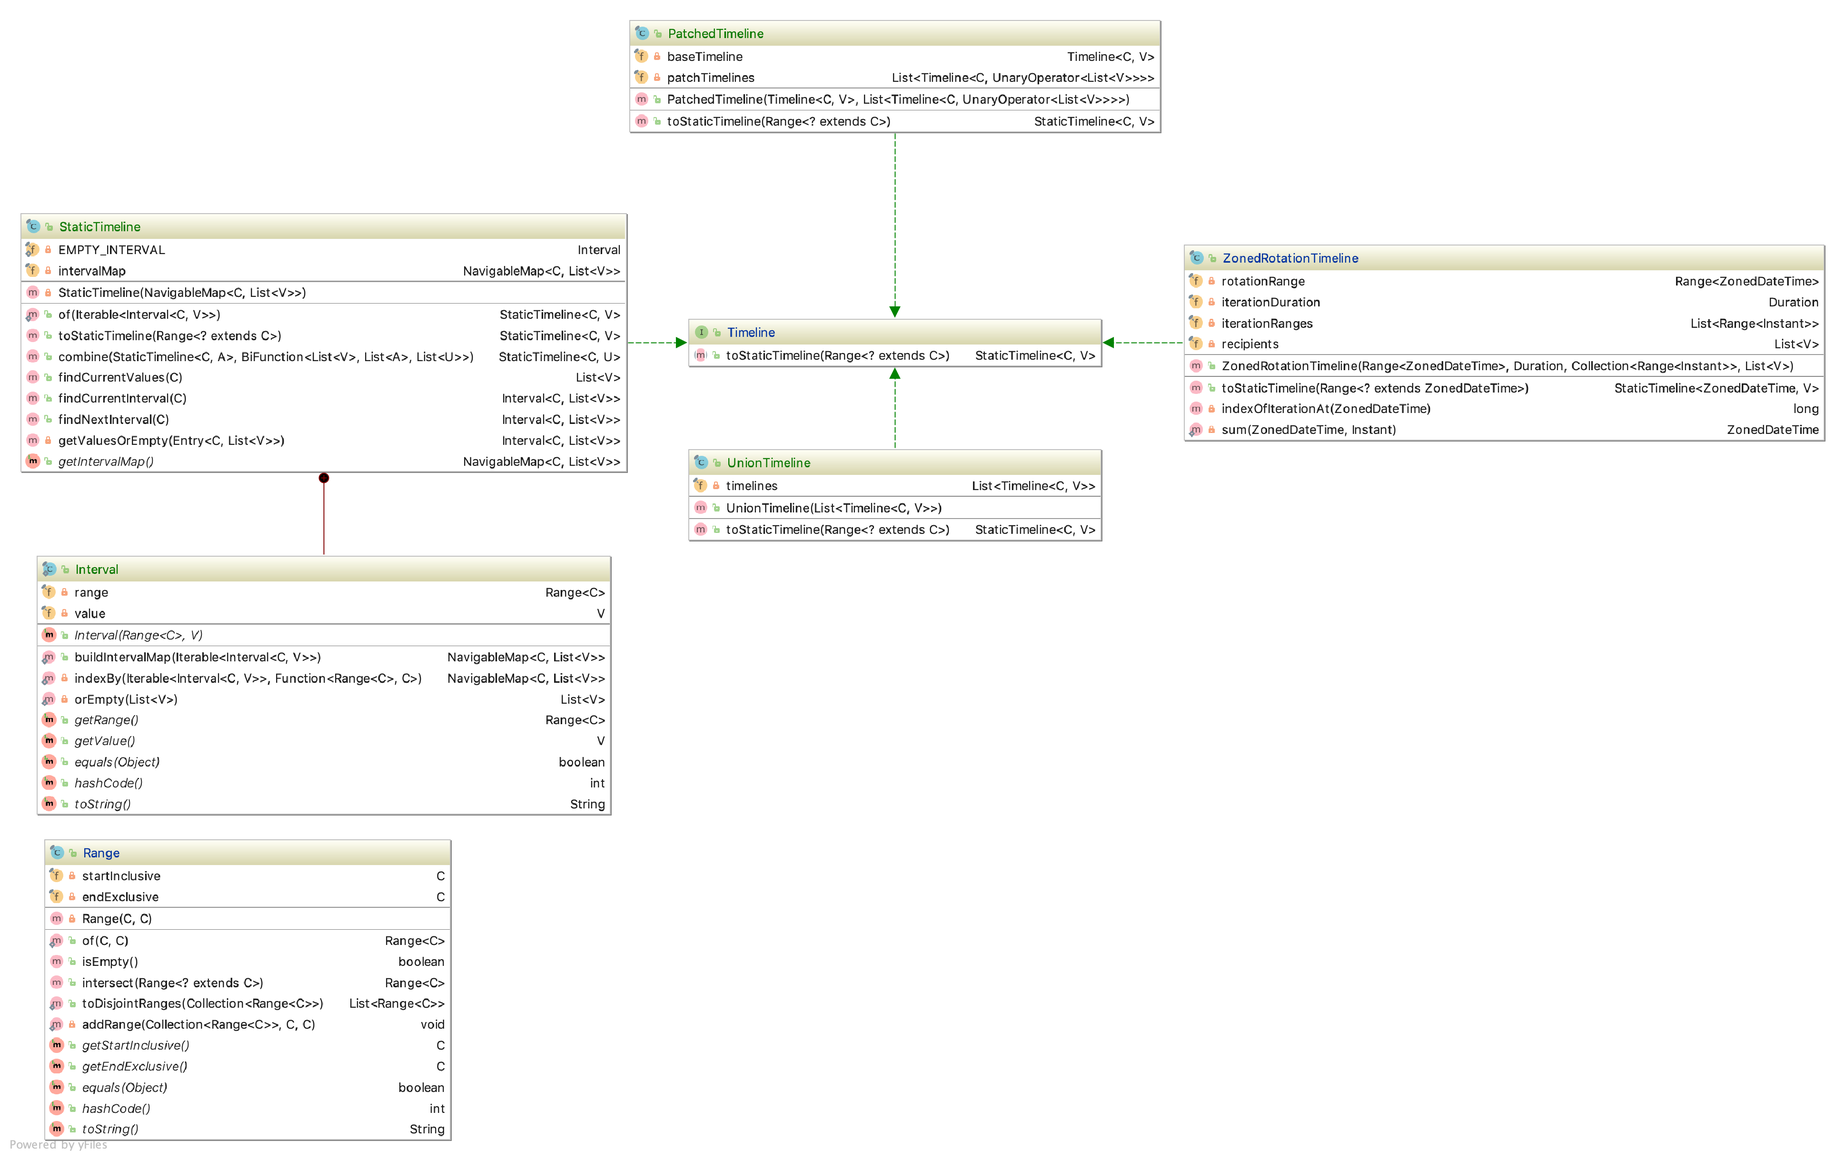
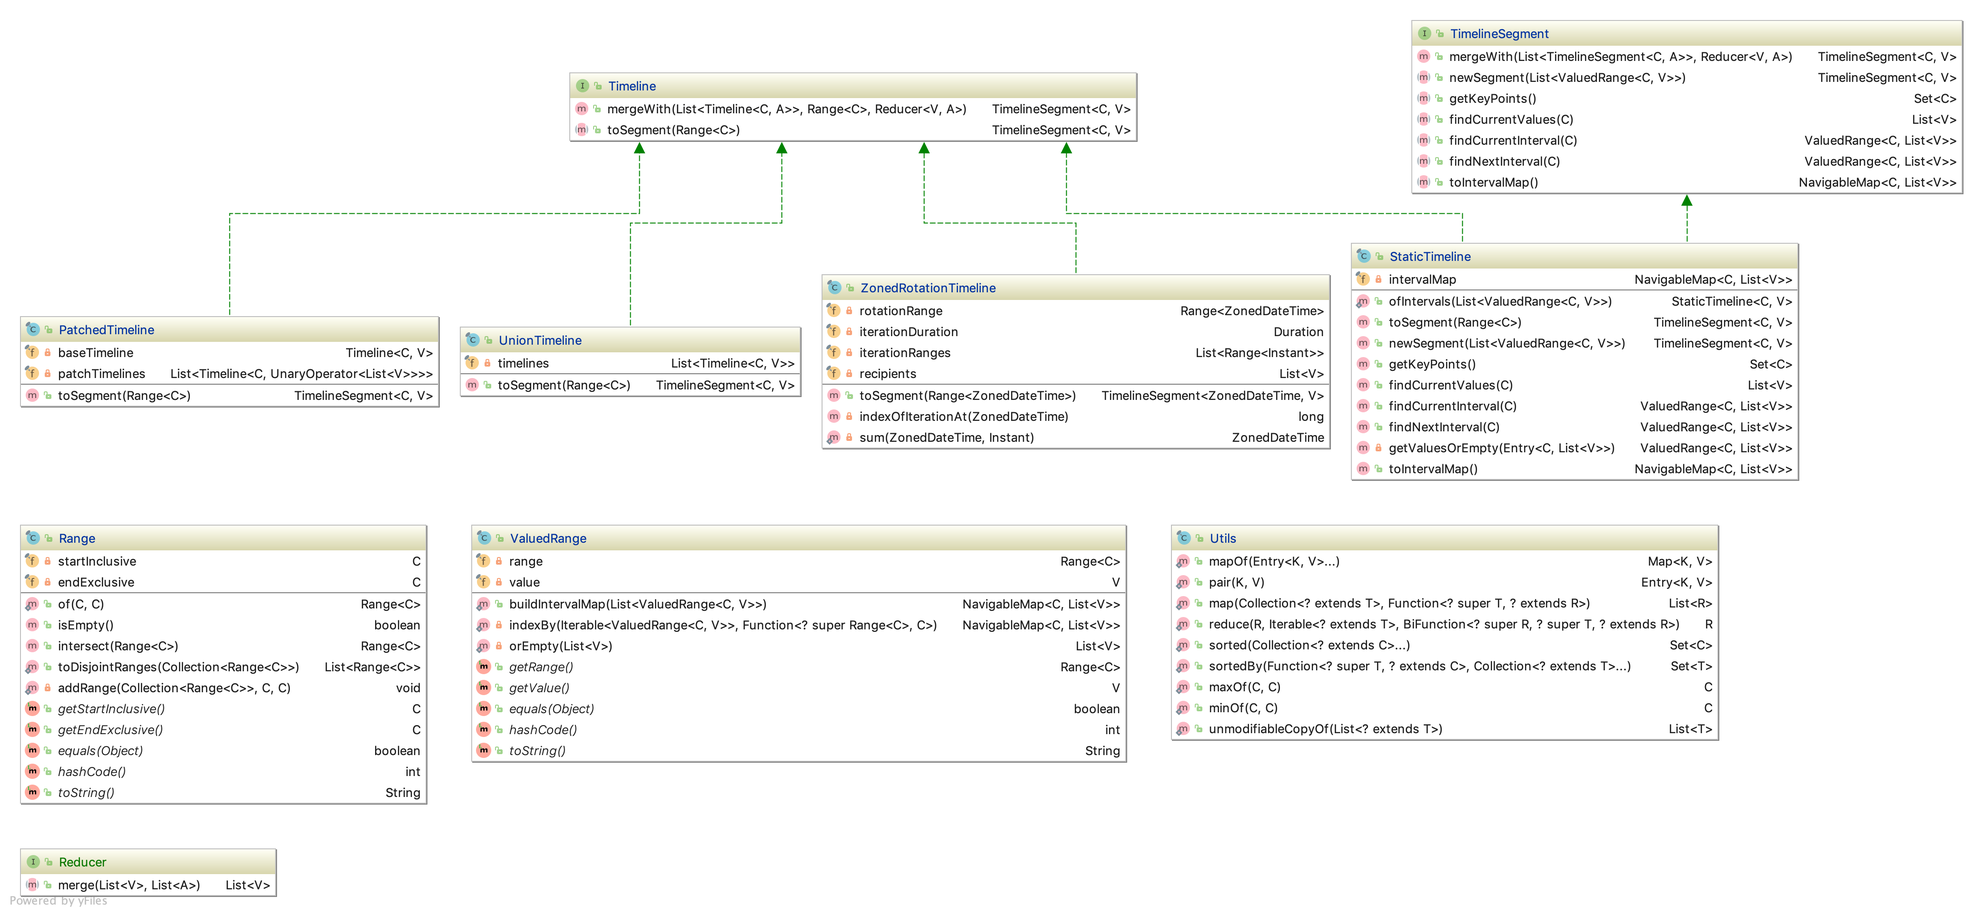
Add DSM

diff --git a/src/test/java/com/github/mmdemirbas/oncalls/TimelineTest.java b/src/test/java/com/github/mmdemirbas/oncalls/TimelineTest.java
@@ -396,13 +396,13 @@ final class TimelineTest {
 
     private static void assertRecipients(BiFunction<Timeline<ZonedDateTime, String>, Long, List<OnCall>> getRecipients,
                                          List<Timeline<ZonedDateTime, String>> rotations,
-                                         List<Interval<Instant, String>> overrides,
+                                         List<ValuedRange<Instant, String>> overrides,
                                          Entry<Instant, List<OnCall>>... expecteds) {
         Timeline<ZonedDateTime, String> snapshot = new PatchedTimeline<>(new UnionTimeline<>(rotations),
                                                                          asList(StaticTimeline.ofIntervals(map(overrides,
                                                                                                                override -> {
                                                                                                                    Range<Instant> range = override.getRange();
-                                                                                                                   return new Interval<>(
+                                                                                                                   return new ValuedRange<>(
                                                                                                                            dateRange(
                                                                                                                                    range.getStartInclusive(),
                                                                                                                                    range.getEndExclusive()),
@@ -429,7 +429,7 @@ final class TimelineTest {
         ZonedDateTime                          oneMonthBefore   = dateTime.minus(1, ChronoUnit.MONTHS);
         ZonedDateTime                          oneMonthAfter    = dateTime.plus(1, ChronoUnit.MONTHS);
         Range<ZonedDateTime>                   calculationRange = Range.of(oneMonthBefore, oneMonthAfter);
-        TimelineSegment<ZonedDateTime, String> timeline         = rotations.toTimelineSegment(calculationRange);
+        TimelineSegment<ZonedDateTime, String> timeline         = rotations.toSegment(calculationRange);
         List<OnCall>                           oncalls          = new ArrayList<>();
         addIfNotNull(oncalls, false, timeline.findCurrentInterval(dateTime));
         addIfNotNull(oncalls, true, timeline.findNextInterval(dateTime));
@@ -437,11 +437,10 @@ final class TimelineTest {
     }
 
     private static void addIfNotNull(List<OnCall> oncalls,
-                                     boolean nextOnCall,
-                                     Interval<ZonedDateTime, List<String>> interval) {
-        interval.getValue()
-                .forEach(value -> {
-                    Range<ZonedDateTime> range          = interval.getRange();
+                                     boolean nextOnCall, ValuedRange<ZonedDateTime, List<String>> valuedRange) {
+        valuedRange.getValue()
+                   .forEach(value -> {
+                       Range<ZonedDateTime> range       = valuedRange.getRange();
                     ZonedDateTime        startInclusive = range.getStartInclusive();
                     ZonedDateTime        endExclusive   = range.getEndExclusive();
                     oncalls.add(new OnCall(value,
@@ -478,8 +477,8 @@ final class TimelineTest {
         return new ZonedRotationTimeline<>(dateRange(ZERO, endTime), rotationPeriod, restrictions, asList(recipients));
     }
 
-    private static Interval<Instant, String> overrideBetween(Instant startTime, Instant endTime, String name) {
-        return new Interval<>(Range.of(startTime, endTime), name);
+    private static ValuedRange<Instant, String> overrideBetween(Instant startTime, Instant endTime, String name) {
+        return new ValuedRange<>(Range.of(startTime, endTime), name);
     }
 
     private static Range<Instant> restrictTo(Instant startTime, Instant endTime) {

diff --git a/src/main/java/com/github/mmdemirbas/oncalls/TimelineSegment.java b/src/main/java/com/github/mmdemirbas/oncalls/TimelineSegment.java
@@ -4,15 +4,13 @@ import java.util.ArrayList;
 import java.util.List;
 import java.util.NavigableMap;
 import java.util.Set;
-import java.util.function.BiFunction;
 
 import static com.github.mmdemirbas.oncalls.Utils.reduce;
 import static com.github.mmdemirbas.oncalls.Utils.sorted;
 import static java.util.Collections.emptyList;
 
 /**
- * @author Muhammed Demirbaş
- * @since 2018-11-22 12:37
+ * Represent a finite interval of a {@link Timeline}. Used to merge multiple timelines and query details.
  */
 public interface TimelineSegment<C extends Comparable<? super C>, V> {
     /**
@@ -20,22 +18,21 @@ public interface TimelineSegment<C extends Comparable<? super C>, V> {
      *
      * @param <A> value type of the other segments
      */
-    default <A> TimelineSegment<C, V> mergeWith(List<TimelineSegment<C, A>> segments,
-                                                BiFunction<List<V>, List<A>, List<V>> mergeFunction) {
+    default <A> TimelineSegment<C, V> mergeWith(List<TimelineSegment<C, A>> segments, Reducer<V, A> mergeFunction) {
         return reduce(this, segments, (acc, segment) -> {
-            List<Interval<C, V>> intervals = new ArrayList<>();
-            List<V>              values    = emptyList();
-            C                    start     = null;
-            C                    end       = null;
+            List<ValuedRange<C, V>> valuedRanges = new ArrayList<>();
+            List<V>                 values       = emptyList();
+            C                       start        = null;
+            C                       end          = null;
 
             for (C point : sorted(acc.getKeyPoints(), segment.getKeyPoints())) {
                 end = point;
-                List<V> mergedValues = mergeFunction.apply(acc.findCurrentValues(point),
+                List<V> mergedValues = mergeFunction.merge(acc.findCurrentValues(point),
                                                            segment.findCurrentValues(point));
                 if (!values.equals(mergedValues)) {
                     if (!values.isEmpty()) {
                         Range<C> range = Range.of(start, end);
-                        values.forEach(value -> intervals.add(new Interval<>(range, value)));
+                        values.forEach(value -> valuedRanges.add(new ValuedRange<>(range, value)));
                     }
                     values = mergedValues;
                     start = end;
@@ -44,16 +41,16 @@ public interface TimelineSegment<C extends Comparable<? super C>, V> {
 
             if (!values.isEmpty()) {
                 Range<C> range = Range.of(start, end);
-                values.forEach(value -> intervals.add(new Interval<>(range, value)));
+                values.forEach(value -> valuedRanges.add(new ValuedRange<>(range, value)));
             }
-            return newSegment(intervals);
+            return newSegment(valuedRanges);
         });
     }
 
     /**
-     * Creates a new {@link TimelineSegment} instance from the given {@code intervals}.
+     * Creates a new {@link TimelineSegment} instance from the given {@code valuedRanges}.
      */
-    TimelineSegment<C, V> newSegment(List<Interval<C, V>> intervals);
+    TimelineSegment<C, V> newSegment(List<ValuedRange<C, V>> valuedRanges);
 
     /**
      * Returns a set of change points. In other words all start and end points of sub-intervals.
@@ -68,12 +65,12 @@ public interface TimelineSegment<C extends Comparable<? super C>, V> {
     /**
      * Returns the interval containing the specified {@code point}.
      */
-    Interval<C, List<V>> findCurrentInterval(C point);
+    ValuedRange<C, List<V>> findCurrentInterval(C point);
 
     /**
      * Returns the interval coming just after the interval containing the specified {@code point}.
      */
-    Interval<C, List<V>> findNextInterval(C point);
+    ValuedRange<C, List<V>> findNextInterval(C point);
 
     /**
      * Returns an interval map representation.

diff --git a/src/main/java/com/github/mmdemirbas/oncalls/StaticTimeline.java b/src/main/java/com/github/mmdemirbas/oncalls/StaticTimeline.java
@@ -17,8 +17,8 @@ public final class StaticTimeline<C extends Comparable<? super C>, V> implements
 
     private final NavigableMap<C, List<V>> intervalMap;
 
-    public static <C extends Comparable<? super C>, V> StaticTimeline<C, V> ofIntervals(Iterable<? extends Interval<? extends C, ? extends V>> intervals) {
-        return new StaticTimeline<>(Interval.buildIntervalMap(intervals));
+    public static <C extends Comparable<? super C>, V> StaticTimeline<C, V> ofIntervals(List<ValuedRange<C, V>> intervals) {
+        return new StaticTimeline<>(ValuedRange.buildIntervalMap(intervals));
     }
 
     private StaticTimeline(NavigableMap<C, List<V>> intervalMap) {
@@ -26,7 +26,7 @@ public final class StaticTimeline<C extends Comparable<? super C>, V> implements
     }
 
     @Override
-    public TimelineSegment<C, V> toTimelineSegment(Range<? extends C> calculationRange) {
+    public TimelineSegment<C, V> toSegment(Range<C> calculationRange) {
         C                        start = calculationRange.getStartInclusive();
         C                        end   = calculationRange.getEndExclusive();
         NavigableMap<C, List<V>> map   = new TreeMap<>(intervalMap.subMap(start, end));
@@ -47,8 +47,8 @@ public final class StaticTimeline<C extends Comparable<? super C>, V> implements
     }
 
     @Override
-    public TimelineSegment<C, V> newSegment(List<Interval<C, V>> intervals) {
-        return ofIntervals(intervals);
+    public TimelineSegment<C, V> newSegment(List<ValuedRange<C, V>> valuedRanges) {
+        return ofIntervals(valuedRanges);
     }
 
     @Override
@@ -62,24 +62,24 @@ public final class StaticTimeline<C extends Comparable<? super C>, V> implements
     }
 
     @Override
-    public Interval<C, List<V>> findCurrentInterval(C point) {
+    public ValuedRange<C, List<V>> findCurrentInterval(C point) {
         return getValuesOrEmpty(intervalMap.floorEntry(point));
     }
 
     @Override
-    public Interval<C, List<V>> findNextInterval(C point) {
+    public ValuedRange<C, List<V>> findNextInterval(C point) {
         return getValuesOrEmpty(intervalMap.higherEntry(point));
     }
 
-    private Interval<C, List<V>> getValuesOrEmpty(Entry<C, List<V>> entry) {
+    private ValuedRange<C, List<V>> getValuesOrEmpty(Entry<C, List<V>> entry) {
         if (entry != null) {
             C key     = entry.getKey();
             C nextKey = intervalMap.higherKey(key);
             if (nextKey != null) {
-                return new Interval<>(Range.of(key, nextKey), entry.getValue());
+                return new ValuedRange<>(Range.of(key, nextKey), entry.getValue());
             }
         }
-        return new Interval(null, emptyList());
+        return new ValuedRange(null, emptyList());
     }
 
     @Override

diff --git a/src/main/java/com/github/mmdemirbas/oncalls/ValuedRange.java b/src/main/java/com/github/mmdemirbas/oncalls/ValuedRange.java
@@ -22,7 +22,7 @@ import static java.util.Collections.unmodifiableNavigableMap;
  * @param <V> type of the value associated by the time range
  */
 @Value
-public final class Interval<C extends Comparable<? super C>, V> {
+public final class ValuedRange<C extends Comparable<? super C>, V> {
     private final Range<C> range;
     private final V        value;
 
@@ -31,7 +31,7 @@ public final class Interval<C extends Comparable<? super C>, V> {
     /**
      * Builds an interval map which can be considered as another form of an "interval tree".
      */
-    public static <C extends Comparable<? super C>, V> NavigableMap<C, List<V>> buildIntervalMap(Iterable<? extends Interval<? extends C, ? extends V>> intervals) {
+    public static <C extends Comparable<? super C>, V> NavigableMap<C, List<V>> buildIntervalMap(List<ValuedRange<C, V>> intervals) {
         NavigableMap<C, List<V>> add           = indexBy(intervals, Range::getStartInclusive);
         NavigableMap<C, List<V>> remove        = indexBy(intervals, Range::getEndExclusive);
         NavigableMap<C, List<V>> intervalMap   = new TreeMap<>();
@@ -45,11 +45,11 @@ public final class Interval<C extends Comparable<? super C>, V> {
         return unmodifiableNavigableMap(intervalMap);
     }
 
-    private static <C extends Comparable<? super C>, V> NavigableMap<C, List<V>> indexBy(Iterable<? extends Interval<? extends C, ? extends V>> intervals,
-                                                                                         Function<? super Range<? extends C>, ? extends C> fn) {
+    private static <C extends Comparable<? super C>, V> NavigableMap<C, List<V>> indexBy(Iterable<ValuedRange<C, V>> intervals,
+                                                                                         Function<? super Range<C>, C> fn) {
         NavigableMap<C, List<V>> index = new TreeMap<>();
         intervals.forEach(interval -> {
-            Range<? extends C> range = interval.getRange();
+            Range<C> range = interval.getRange();
             if (!range.isEmpty()) {
                 C       key    = fn.apply(range);
                 List<V> values = index.computeIfAbsent(key, x -> new ArrayList<>());

diff --git a/src/main/java/com/github/mmdemirbas/oncalls/ZonedRotationTimeline.java b/src/main/java/com/github/mmdemirbas/oncalls/ZonedRotationTimeline.java
@@ -42,8 +42,8 @@ public final class ZonedRotationTimeline<V> implements Timeline<ZonedDateTime, V
     }
 
     @Override
-    public TimelineSegment<ZonedDateTime, V> toTimelineSegment(Range<? extends ZonedDateTime> calculationRange) {
-        List<Interval<ZonedDateTime, V>> intervals = new ArrayList<>();
+    public TimelineSegment<ZonedDateTime, V> toSegment(Range<ZonedDateTime> calculationRange) {
+        List<ValuedRange<ZonedDateTime, V>> valuedRanges = new ArrayList<>();
         if (!recipients.isEmpty()) {
             Range<ZonedDateTime> effectiveRange = rotationRange.intersect(calculationRange);
             long                 startIndex     = indexOfIterationAt(effectiveRange.getStartInclusive());
@@ -54,14 +54,14 @@ public final class ZonedRotationTimeline<V> implements Timeline<ZonedDateTime, V
             for (long index = startIndex; index <= endIndex; index++) {
                 V recipient = recipients.get((int) (index % recipients.size()));
                 for (Range<Instant> range : iterationRanges) {
-                    intervals.add(new Interval<>(Range.of(sum(offset, range.getStartInclusive()),
-                                                          sum(offset, range.getEndExclusive()))
-                                                      .intersect(effectiveRange), recipient));
+                    valuedRanges.add(new ValuedRange<>(Range.of(sum(offset, range.getStartInclusive()),
+                                                                sum(offset, range.getEndExclusive()))
+                                                            .intersect(effectiveRange), recipient));
                 }
                 offset = offset.plus(iterationDuration);
             }
         }
-        return StaticTimeline.ofIntervals(intervals);
+        return StaticTimeline.ofIntervals(valuedRanges);
     }
 
     private long indexOfIterationAt(ZonedDateTime point) {

diff --git a/src/test/java/com/github/mmdemirbas/oncalls/ValuedRangeTest.java b/src/test/java/com/github/mmdemirbas/oncalls/ValuedRangeTest.java
@@ -2,7 +2,6 @@ package com.github.mmdemirbas.oncalls;
 
 import org.junit.jupiter.api.Test;
 
-import java.util.Collection;
 import java.util.List;
 import java.util.Map;
 
@@ -15,7 +14,7 @@ import static org.junit.jupiter.api.Assertions.assertEquals;
  * @author Muhammed Demirbaş
  * @since 2018-11-22 09:56
  */
-public final class IntervalTest {
+public final class ValuedRangeTest {
     @Test
     void buildIntervalMap_NoEvents() {
         assertIntervalMap(mapOf(), asList());
@@ -60,15 +59,15 @@ public final class IntervalTest {
     }
 
     private static void assertIntervalMap(Map<Integer, List<String>> expected,
-                                          Collection<Interval<Integer, String>> intervals) {
-        assertEquals(expected, Interval.buildIntervalMap(intervals));
+                                          List<ValuedRange<Integer, String>> valuedRanges) {
+        assertEquals(expected, ValuedRange.buildIntervalMap(valuedRanges));
     }
 
     ////////////////////////////////////////////////////////////////////////////////////////////////////////////////////
 
-    private static <C extends Comparable<? super C>, V> Interval<C, V> interval(C startInclusive,
-                                                                                C endExclusive,
-                                                                                V value) {
-        return new Interval<>(Range.of(startInclusive, endExclusive), value);
+    private static <C extends Comparable<? super C>, V> ValuedRange<C, V> interval(C startInclusive,
+                                                                                   C endExclusive,
+                                                                                   V value) {
+        return new ValuedRange<>(Range.of(startInclusive, endExclusive), value);
     }
 }

diff --git a/src/main/java/com/github/mmdemirbas/oncalls/Timeline.java b/src/main/java/com/github/mmdemirbas/oncalls/Timeline.java
@@ -1,7 +1,6 @@
 package com.github.mmdemirbas.oncalls;
 
 import java.util.List;
-import java.util.function.BiFunction;
 
 import static com.github.mmdemirbas.oncalls.Utils.map;
 
@@ -20,15 +19,14 @@ public interface Timeline<C extends Comparable<? super C>, V> {
      * @param <A> type of the values of the other timelines
      */
     default <A> TimelineSegment<C, V> mergeWith(List<Timeline<C, A>> timelines,
-                                                Range<? extends C> calculationRange,
-                                                BiFunction<List<V>, List<A>, List<V>> mergeFunction) {
-        return toTimelineSegment(calculationRange).mergeWith(map(timelines,
-                                                                 timeline -> timeline.toTimelineSegment(calculationRange)),
-                                                             mergeFunction);
+                                                Range<C> calculationRange,
+                                                Reducer<V, A> mergeFunction) {
+        return toSegment(calculationRange).mergeWith(map(timelines, timeline -> timeline.toSegment(calculationRange)),
+                                                     mergeFunction);
     }
 
     /**
-     * Converts the specified {@code calculationRange} part of this Timeline into a {@link TimelineSegment}
+     * Creates a {@link TimelineSegment} on the specified {@code calculationRange} of this Timeline.
      */
-    TimelineSegment<C, V> toTimelineSegment(Range<? extends C> calculationRange);
+    TimelineSegment<C, V> toSegment(Range<C> calculationRange);
 }

diff --git a/src/test/java/com/github/mmdemirbas/oncalls/ZonedRotationTimelineTest.java b/src/test/java/com/github/mmdemirbas/oncalls/ZonedRotationTimelineTest.java
@@ -149,7 +149,7 @@ final class ZonedRotationTimelineTest {
                                                                                   iterationDuration,
                                                                                   subRanges,
                                                                                   participants);
-        TimelineSegment<ZonedDateTime, Integer> timeline = recurrence.toTimelineSegment(calculationRange);
+        TimelineSegment<ZonedDateTime, Integer> timeline = recurrence.toSegment(calculationRange);
         assertEquals(expected, timeline.toIntervalMap());
     }
 

diff --git a/src/main/java/com/github/mmdemirbas/oncalls/PatchedTimeline.java b/src/main/java/com/github/mmdemirbas/oncalls/PatchedTimeline.java
@@ -22,7 +22,7 @@ public final class PatchedTimeline<C extends Comparable<? super C>, V> implement
     }
 
     @Override
-    public TimelineSegment<C, V> toTimelineSegment(Range<? extends C> calculationRange) {
+    public TimelineSegment<C, V> toSegment(Range<C> calculationRange) {
         return baseTimeline.mergeWith(patchTimelines,
                                       calculationRange,
                                       (values, patches) -> reduce((List<V>) new ArrayList<>(values),

diff --git a/src/main/java/com/github/mmdemirbas/oncalls/UnionTimeline.java b/src/main/java/com/github/mmdemirbas/oncalls/UnionTimeline.java
@@ -21,7 +21,7 @@ public final class UnionTimeline<C extends Comparable<? super C>, V> implements 
     }
 
     @Override
-    public TimelineSegment<C, V> toTimelineSegment(Range<? extends C> calculationRange) {
+    public TimelineSegment<C, V> toSegment(Range<C> calculationRange) {
         Timeline<C, V> seed = StaticTimeline.ofIntervals(Collections.emptyList());
         return seed.mergeWith(timelines,
                               calculationRange,

diff --git a/src/main/java/com/github/mmdemirbas/oncalls/Range.java b/src/main/java/com/github/mmdemirbas/oncalls/Range.java
@@ -62,7 +62,7 @@ public final class Range<C extends Comparable<? super C>> {
     /**
      * Returns intersection of this range with the given range.
      */
-    public Range<C> intersect(Range<? extends C> other) {
+    public Range<C> intersect(Range<C> other) {
         C start  = maxOf(startInclusive, other.startInclusive);
         C end    = minOf(endExclusive, other.endExclusive);
         C finalS = minOf(start, end);

diff --git a/src/main/java/com/github/mmdemirbas/oncalls/Utils.java b/src/main/java/com/github/mmdemirbas/oncalls/Utils.java
@@ -25,7 +25,7 @@ public final class Utils {
 
     // todo: release a major version when ready
 
-    // todo: give better names to Interval & Range
+    // todo: give better names to ValuedRange & Range
 
     // todo: improve images -- split one-by-one, add tags to last 2
 
